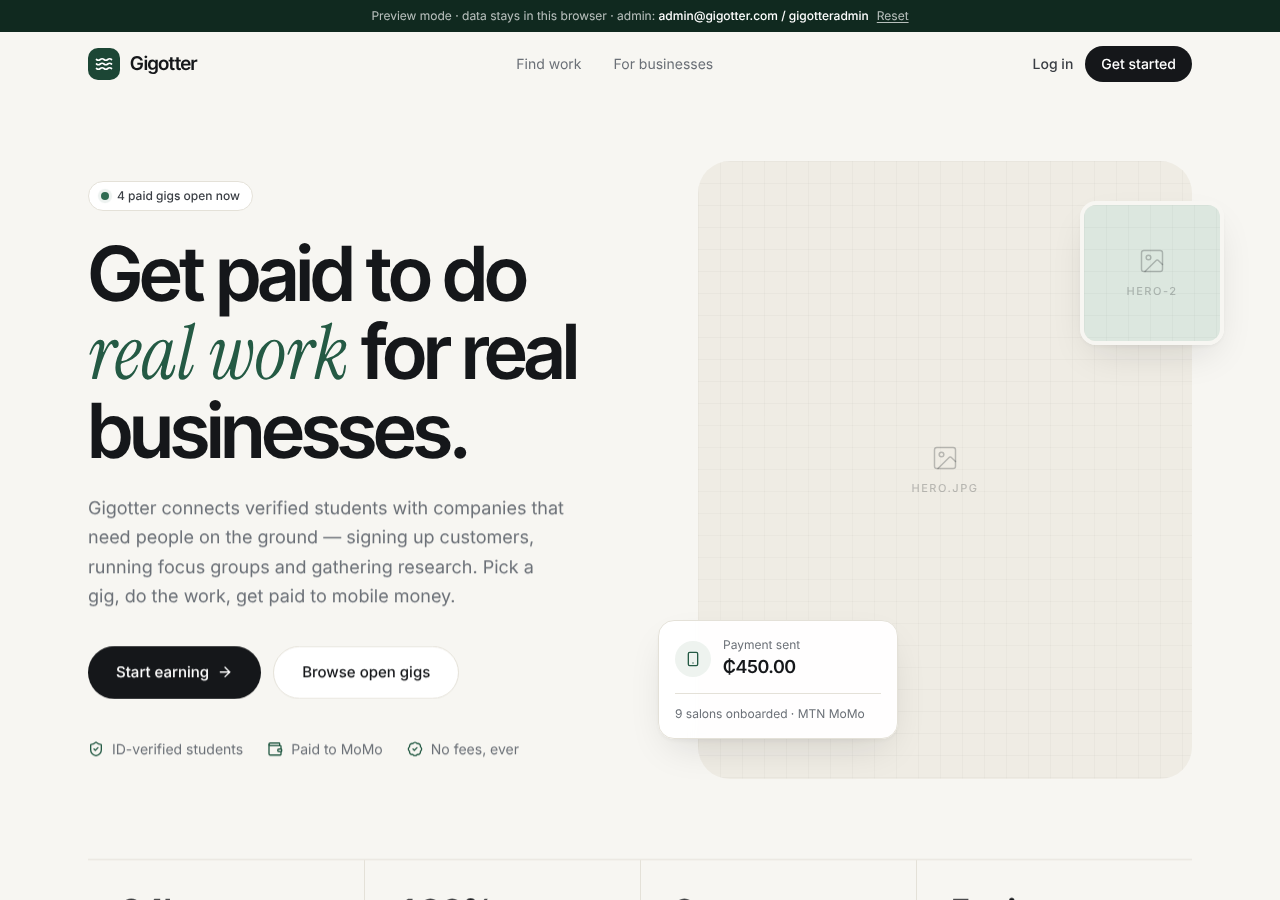
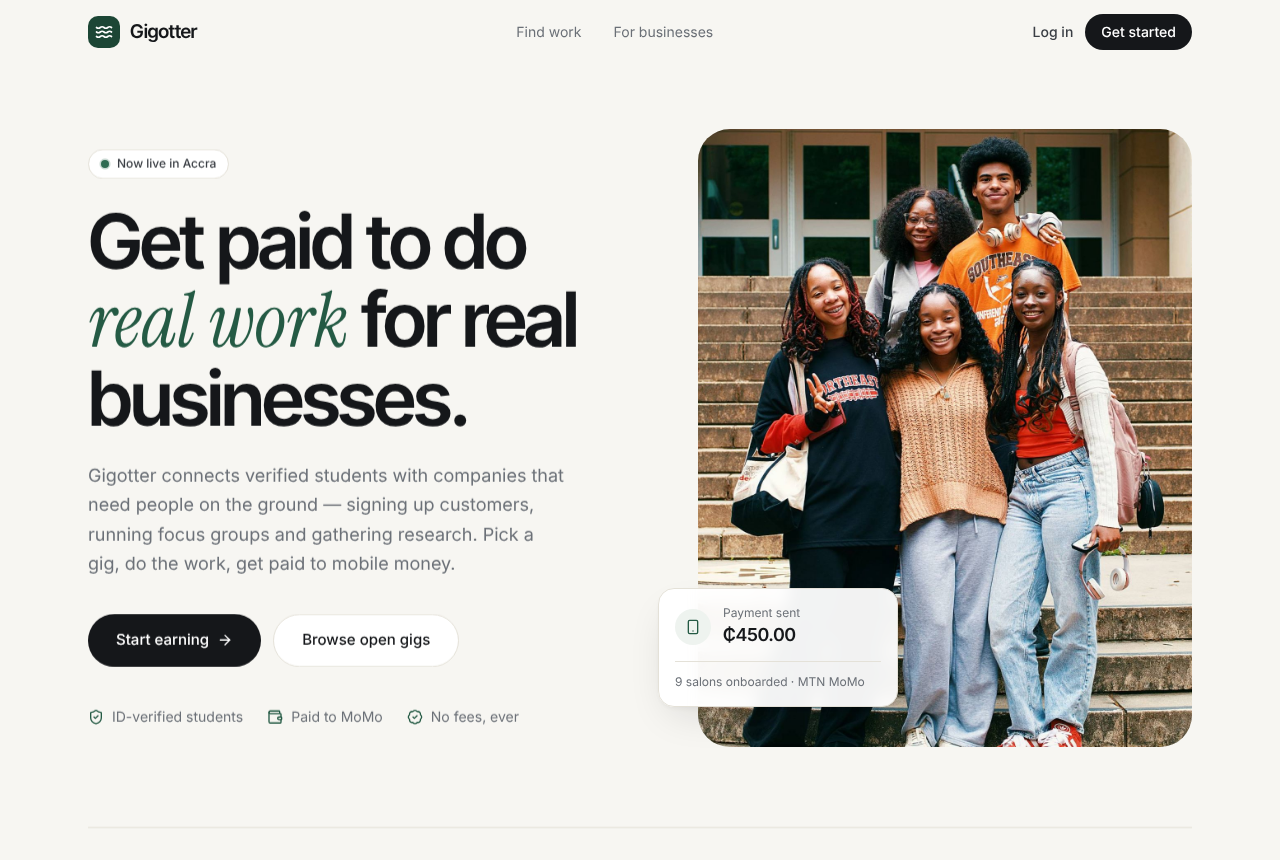
Add hero and sign-up photo
Students-on-steps photo from Unsplash, cropped to 4:5 for the hero and
used full-height beside sign-up and login. Hide the small hero inset
until its own photo is added. Credits in public/images/CREDITS.md.

Claude-Session: https://claude.ai/code/session_01E2vaLUqDfRKS7n3VPqTwzA

diff --git a/src/pages/Landing.tsx b/src/pages/Landing.tsx
@@ -63,8 +63,8 @@ export default function Landing() {
             <div className="mt-3 border-t border-line pt-3 text-xs text-ink-muted">9 salons onboarded · MTN MoMo</div>
           </motion.div>
           <motion.div initial={{ opacity: 0, y: 16 }} animate={{ opacity: 1, y: 0 }} transition={{ delay: 0.9, duration: 0.7, ease: EASE }}
-            className="absolute -right-3 top-10 hidden w-36 overflow-hidden rounded-2xl border-4 border-paper shadow-lift sm:block md:-right-8">
-            <Photo src={IMG.heroAlt} alt="Business owner in her shop" label="hero-2" className="aspect-square w-full" tone="brand" />
+            className="absolute -right-3 top-10 hidden w-36 overflow-hidden rounded-2xl shadow-lift empty:hidden sm:block md:-right-8 [&>div]:border-4 [&>div]:border-paper [&>div]:rounded-2xl">
+            <Photo src={IMG.heroAlt} alt="Business owner in her shop" hideIfMissing className="aspect-square w-full" tone="brand" />
           </motion.div>
         </motion.div>
       </section>

diff --git a/src/components/Photo.tsx b/src/components/Photo.tsx
@@ -2,11 +2,12 @@ import { ImageIcon } from 'lucide-react'
 import { useEffect, useState } from 'react'
 
 /** Image with a graceful, on-brand fallback when the file isn't there yet. */
-export default function Photo({ src, alt, className = '', tone = 'sand', label }: {
-  src?: string | null; alt: string; className?: string; tone?: 'sand' | 'brand' | 'dark'; label?: string
+export default function Photo({ src, alt, className = '', tone = 'sand', label, hideIfMissing }: {
+  src?: string | null; alt: string; className?: string; tone?: 'sand' | 'brand' | 'dark'; label?: string; hideIfMissing?: boolean
 }) {
   const [ok, setOk] = useState<boolean | null>(src ? null : false)
   useEffect(() => { setOk(src ? null : false) }, [src])
+  if (hideIfMissing && ok === false) return null
   const bg = tone === 'brand' ? 'bg-brand-100' : tone === 'dark' ? 'bg-brand-900' : 'bg-sand'
   return (
     <div className={`${/\b(absolute|fixed)\b/.test(className) ? '' : 'relative'} overflow-hidden ${bg} ${className}`}>

diff --git a/public/images/CREDITS.md b/public/images/CREDITS.md
@@ -1,0 +1,7 @@
+# Photo credits
+
+All photos are used under the [Unsplash License](https://unsplash.com/license) unless noted.
+
+| File | Source |
+|---|---|
+| hero.jpg, auth.jpg | [Unsplash — "A group of smiling friends pose on some steps"](https://unsplash.com/photos/rqaAWQgy05U) |
